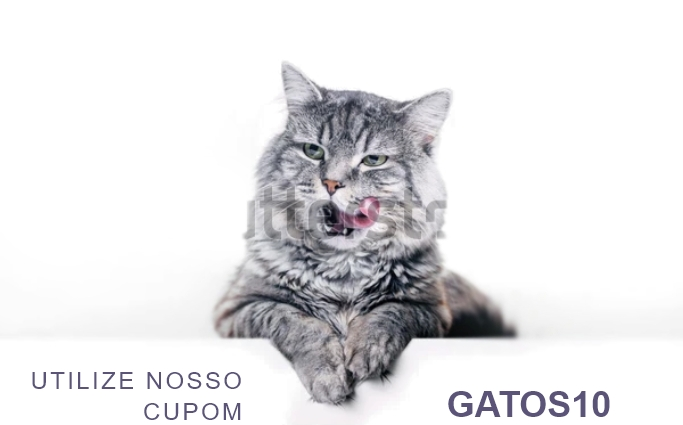
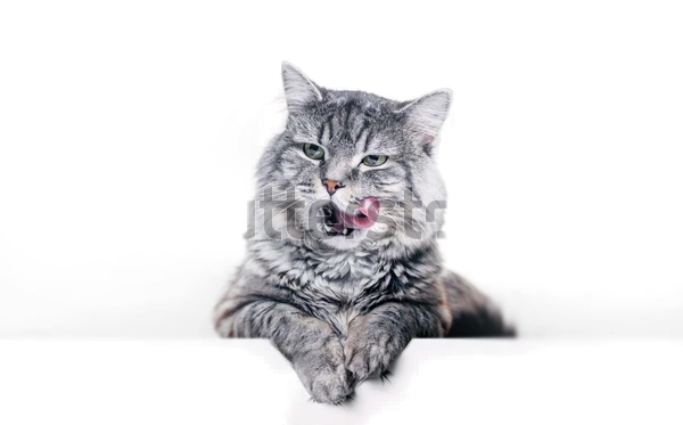
Email e imgs

diff --git a/styles/scss/vtex.rich-text.scss b/styles/scss/vtex.rich-text.scss
@@ -90,3 +90,61 @@
         }
     }
 }
+.container--title-section-6-title-sing{
+    margin-right: 50px;
+    .wrapper--title-section-6-title-sing{
+        .paragraph--title-section-6-title-sing{
+            font-size: 18px;
+            color: #053471;
+        }
+    }
+}
+.container--icon-sing{
+    .wrapper--icon-sing{
+        .paragraph--icon-sing{
+            margin-right: 30px;
+        }
+    }
+}
+.container--cupom{
+    .wrapper--cupom{
+        position: absolute;
+        left: 31px;
+        bottom: 0;
+        .paragraph--cupom{
+            font-size: 24px;
+            color: #5B5478;
+            font-weight: 100;
+            margin: 0;
+            text-align: right;
+            letter-spacing: 3px;
+            text-transform: uppercase;
+        }
+    }
+}
+.container--cats{
+    .wrapper--cats{
+        position: absolute;
+        right: 31px;
+        bottom: 0;
+        .paragraph--cats{
+            font-size: 36px;
+            color: #5B5478;
+            margin: 0;
+        }
+    }
+}
+
+.container--promo{
+    .wrapper--promo{
+        position: absolute;
+        right: 5px;
+        bottom: -27px;
+        .paragraph--promo{
+            font-size: 60px;
+            color: #fff;
+            margin: 0;
+            letter-spacing: 3px;
+        }
+    }
+}

diff --git a/styles/scss/vtex.store-newsletter.scss b/styles/scss/vtex.store-newsletter.scss
@@ -12,6 +12,7 @@
                 margin: 50px 0 0 0;
                 :global(.vtex-styleguide-9-x-input){
                     background: transparent;
+                    padding: 0 !important;
                 }
             }
         }
@@ -24,8 +25,10 @@
                 border-bottom: 1px solid #E6E6E6;
                 border-radius: 0;
                 background: none;
+                margin-top: 50px;
                 :global(.vtex-styleguide-9-x-input){
                     background: transparent;
+                    padding: 0 !important;
                 }
             }
         }

diff --git a/styles/scss/vtex.flex-layout.scss b/styles/scss/vtex.flex-layout.scss
@@ -241,3 +241,12 @@
 .flexRowContent--container-section-6{
 	padding: 50px;
 }
+.flexRowContent--section-6-sing{
+	display: flex;
+    align-items: center;
+    justify-content: flex-start;
+	margin-top: 50px;
+}
+.flexRowContent--container-img-1 {
+	position: relative;
+}
